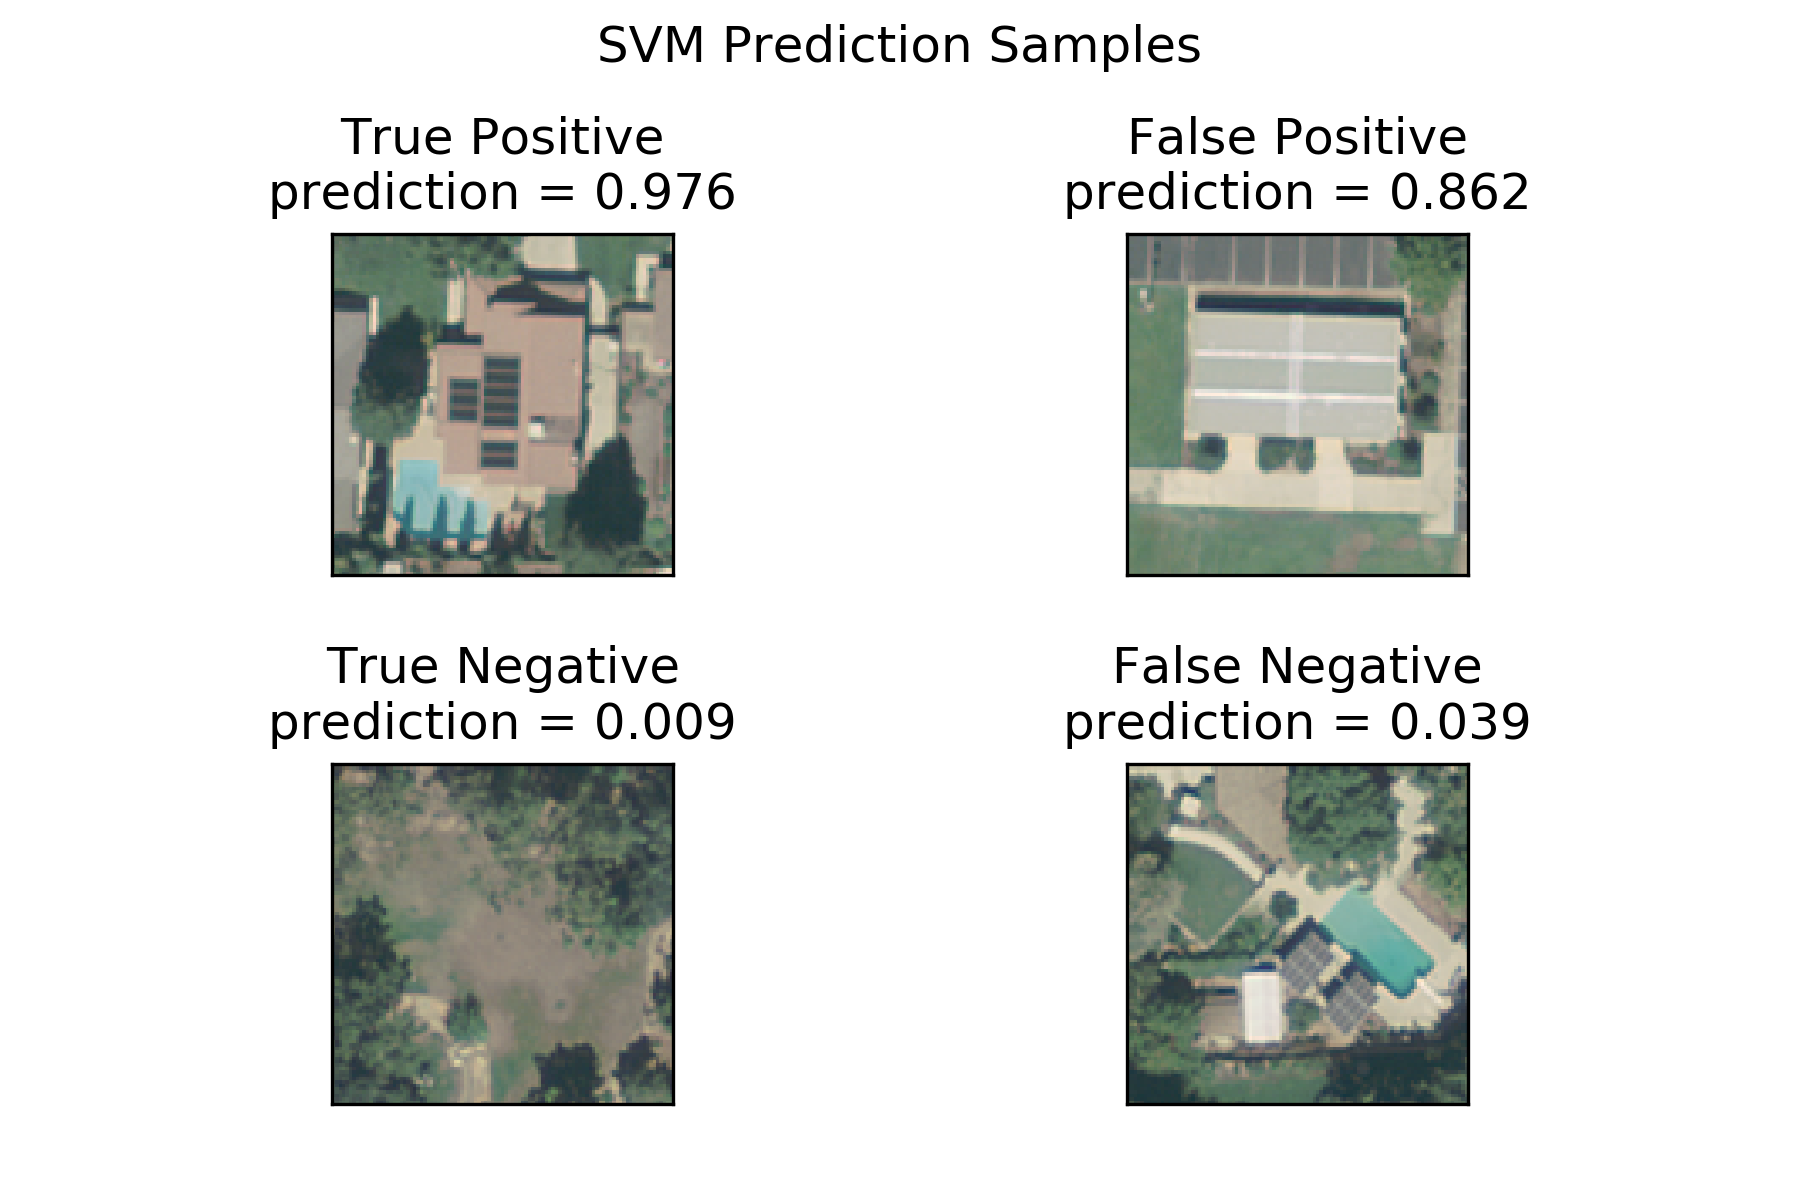
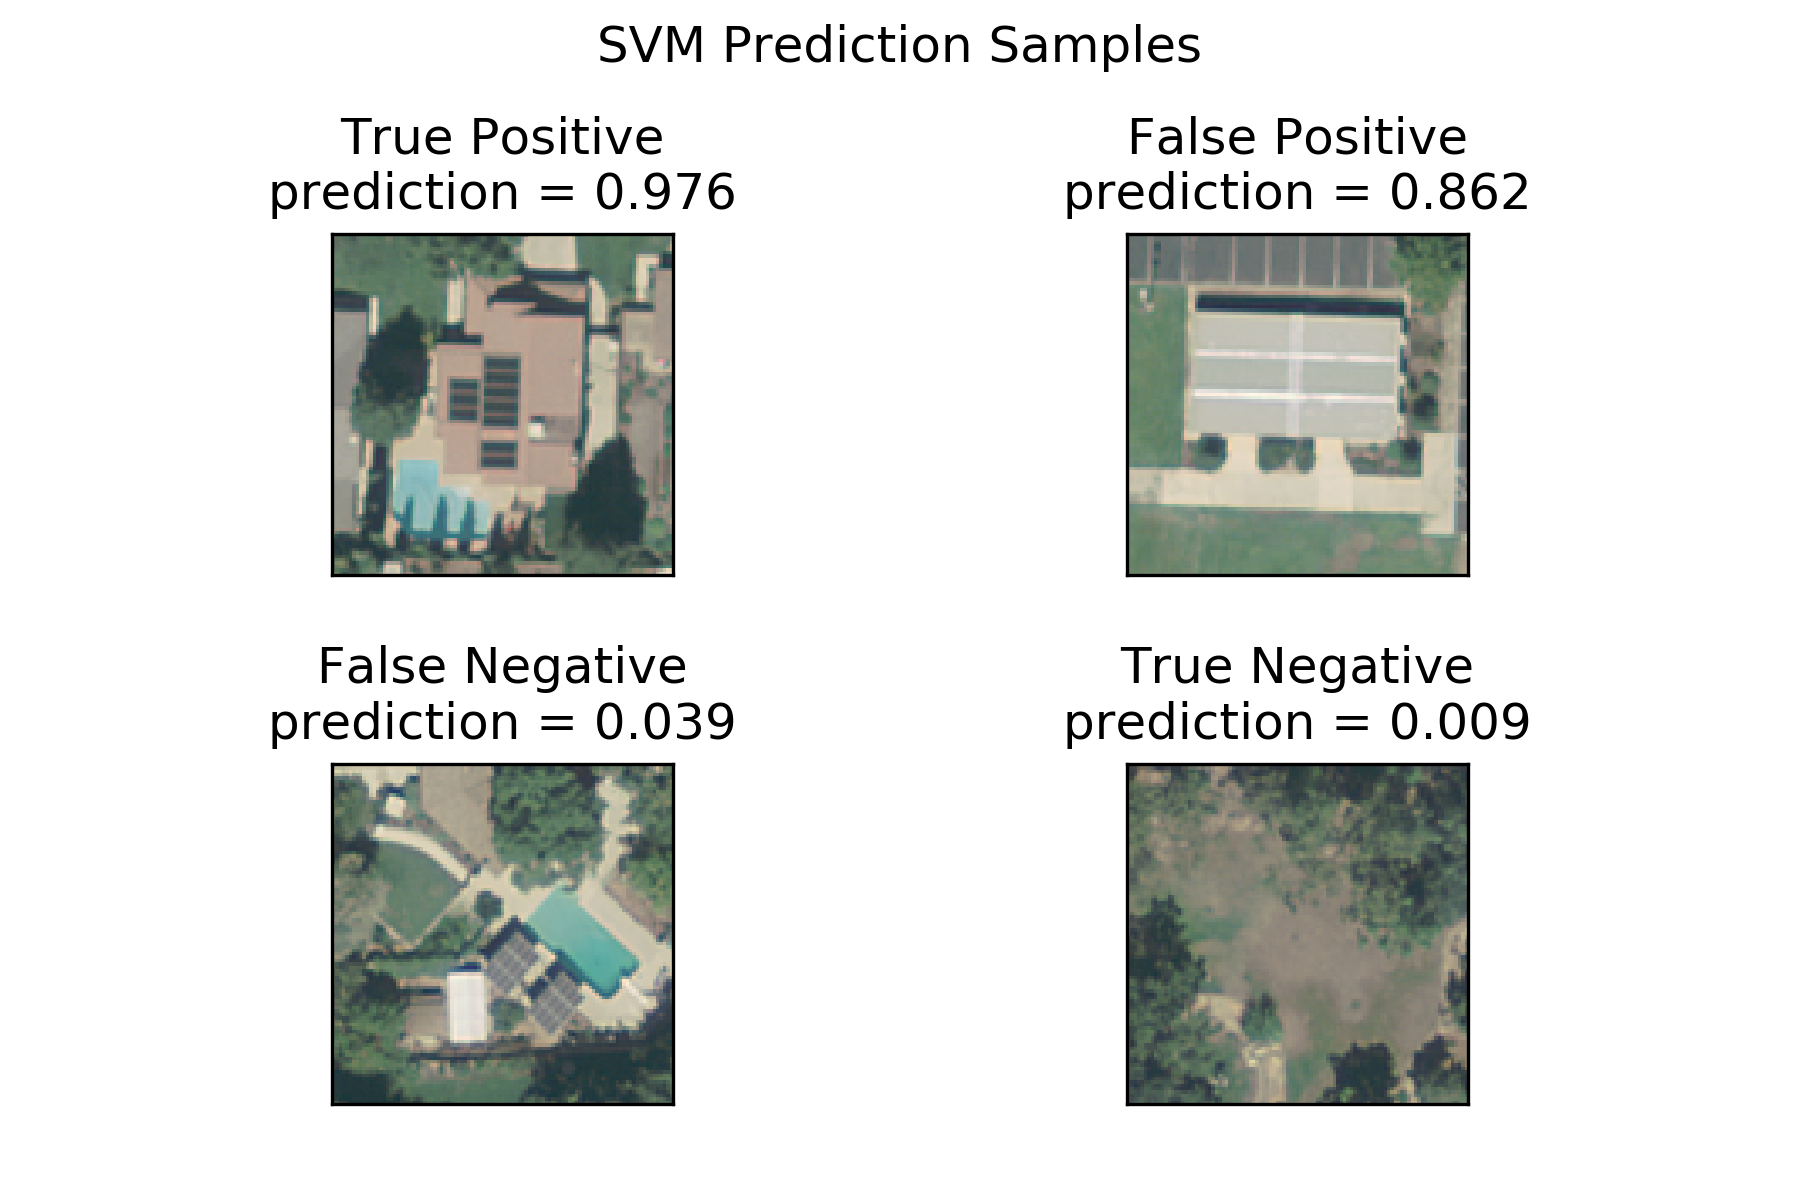
fixed svm confmat figure

diff --git a/preformance_plots.py b/preformance_plots.py
@@ -115,6 +115,10 @@ fig.tight_layout()
 plt.savefig('report/figures/bagged_cnn_roc.png', dpi=300, bbox_inches='tight')
 # %%
 
+plot_prediction_samples(imgs, labels,
+                        svm_preds, 'SVM Prediction Samples')
+plt.savefig('report/figures/svm_confmat.png', dpi=300)
+
 plot_prediction_samples(imgs[super_idx], y_super_test,
                         ensemble_preds, 'Weighted Voting Prediction Samples')
 plt.savefig('report/figures/weighted_voting_confmat.png', dpi=300)
